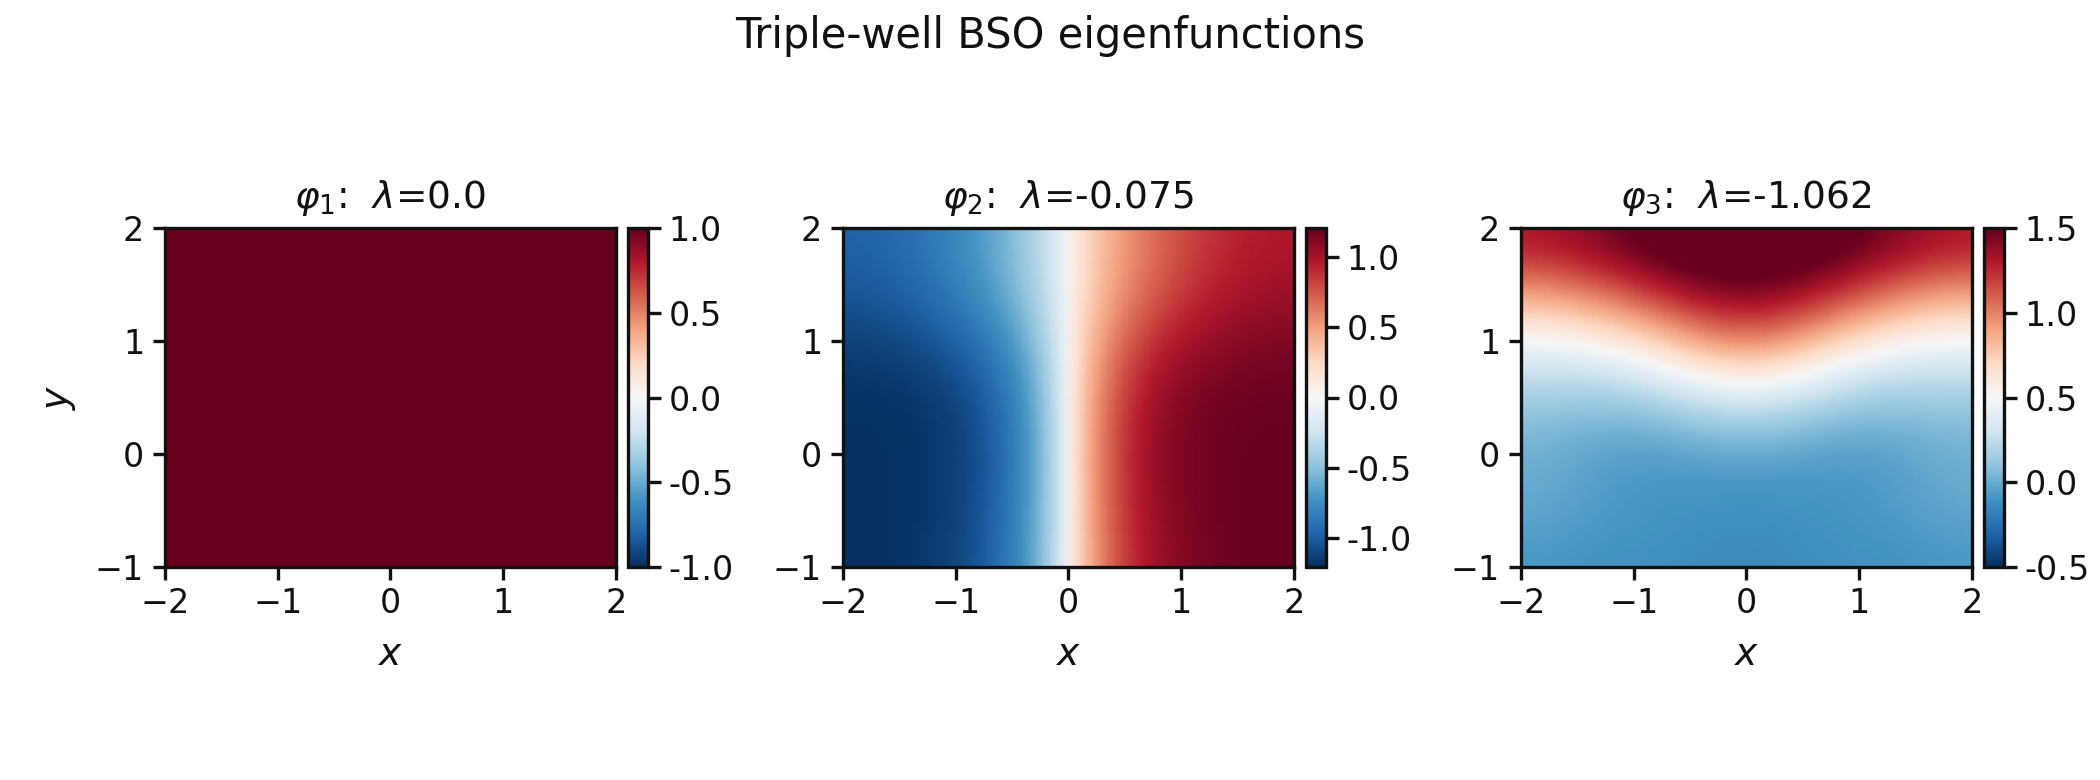
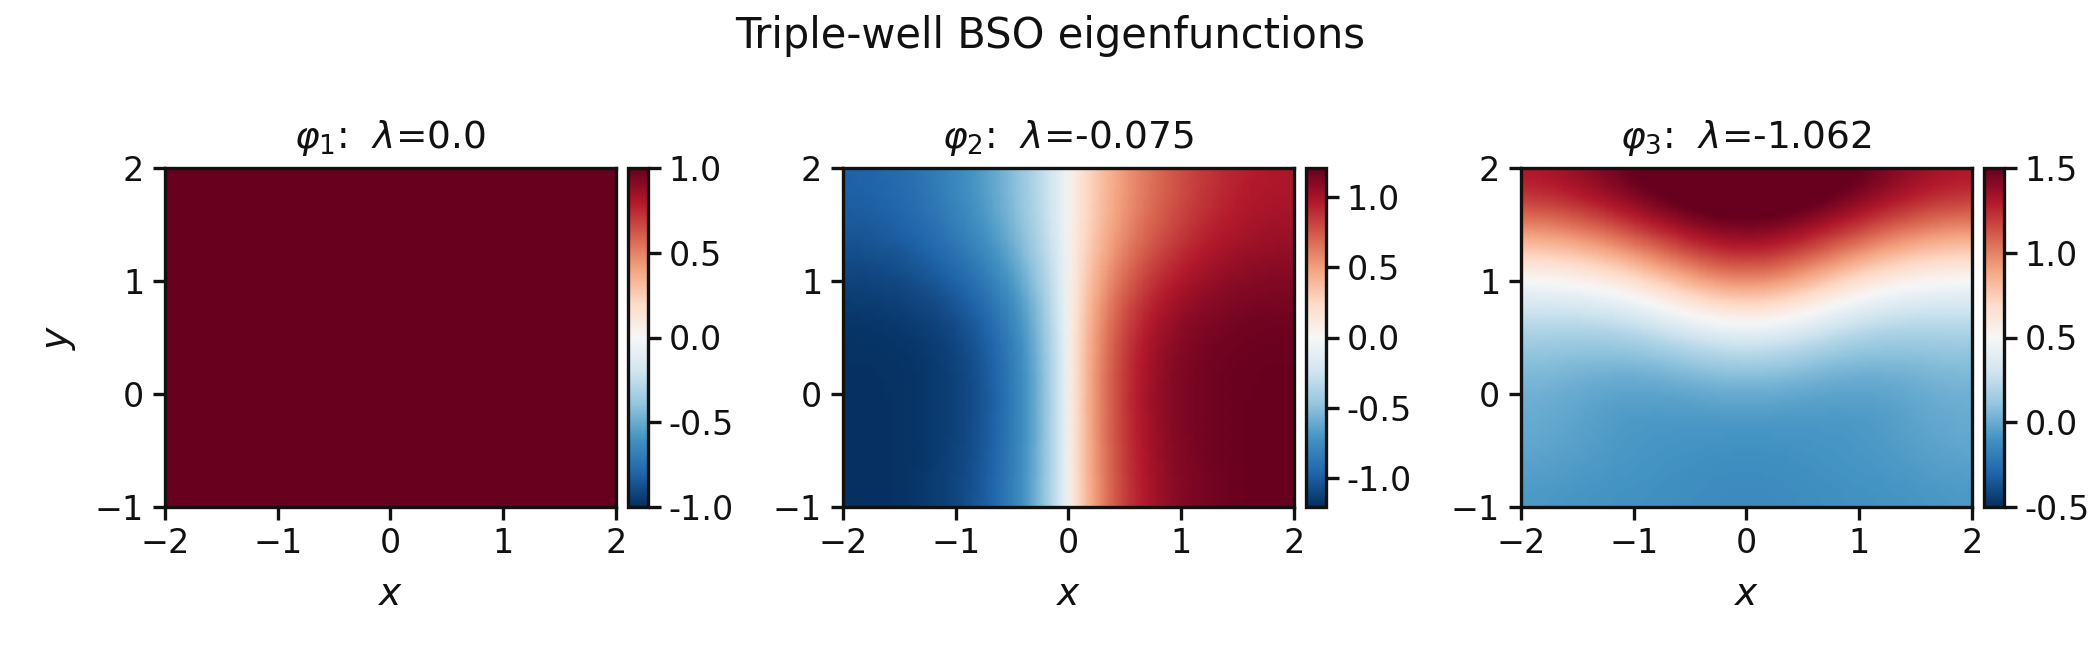
M

diff --git a/FIGURE_STYLE.md b/FIGURE_STYLE.md
@@ -113,7 +113,7 @@ Matplotlib's relative fractions.
 | `sst/sst_forecast_skill` | 2x2 | 7.0x5.25 | 0.55 / 0.10 / 0.48 / 0.90 | 0.62 / 0.62 | title 0.05 in from top; legend 0.34 in from top, 3 columns |
 | `sst/sst_rollout_stability` | 1x2 | 7.0x3.0 | 0.53 / 0.10 / 0.48 / 0.82 | 0.54 / 0 | title 0.05 in from top; legend 0.36 in from top, 3 columns |
 | `triple_well/tw_eigenvalues` | 1x1 | 3.4x3.4 | 0.55 / 0.12 / 0.47 / 0.28 | 0 / 0 | axis legend, 1 column |
-| `triple_well/tw_eigenfunctions` | 1x3 | 7.0x2.6 | 0.55 / 0.32 / 0.43 / 0.48 | 0.65 / 0 | title 0.05 in from top; colorbar size 4.5%, pad 0.04 in |
+| `triple_well/tw_eigenfunctions` | 1x3 | 7.0x2.2 | 0.55 / 0.32 / 0.43 / 0.48 | 0.65 / 0 | title 0.05 in from top; colorbar size 4.5%, pad 0.04 in |
 
 The older two-panel OU evaluation function uses 7.0x3.0 in, margins
 0.52 / 0.10 / 0.48 / 0.30 in, and a 0.55 in column gap.
